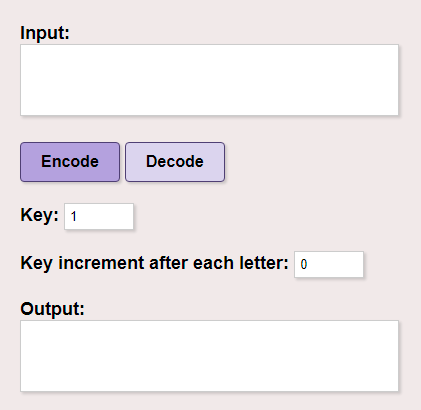
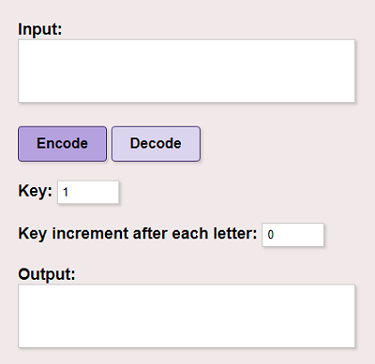
reduce caesar cypher image size

diff --git a/portfolio.html b/portfolio.html
@@ -78,7 +78,7 @@
                             <a href="https://github.com/k-mill1/caesar-cipher.git" class="btn" role="button" target="_blank">View Code</a> 
                             </br></br>
                         </div>
-                        <div class="col-md" >
+                        <div class="col-md-5" >
                             <img src = "caesar.png">
                         </div>    
                     </div>
